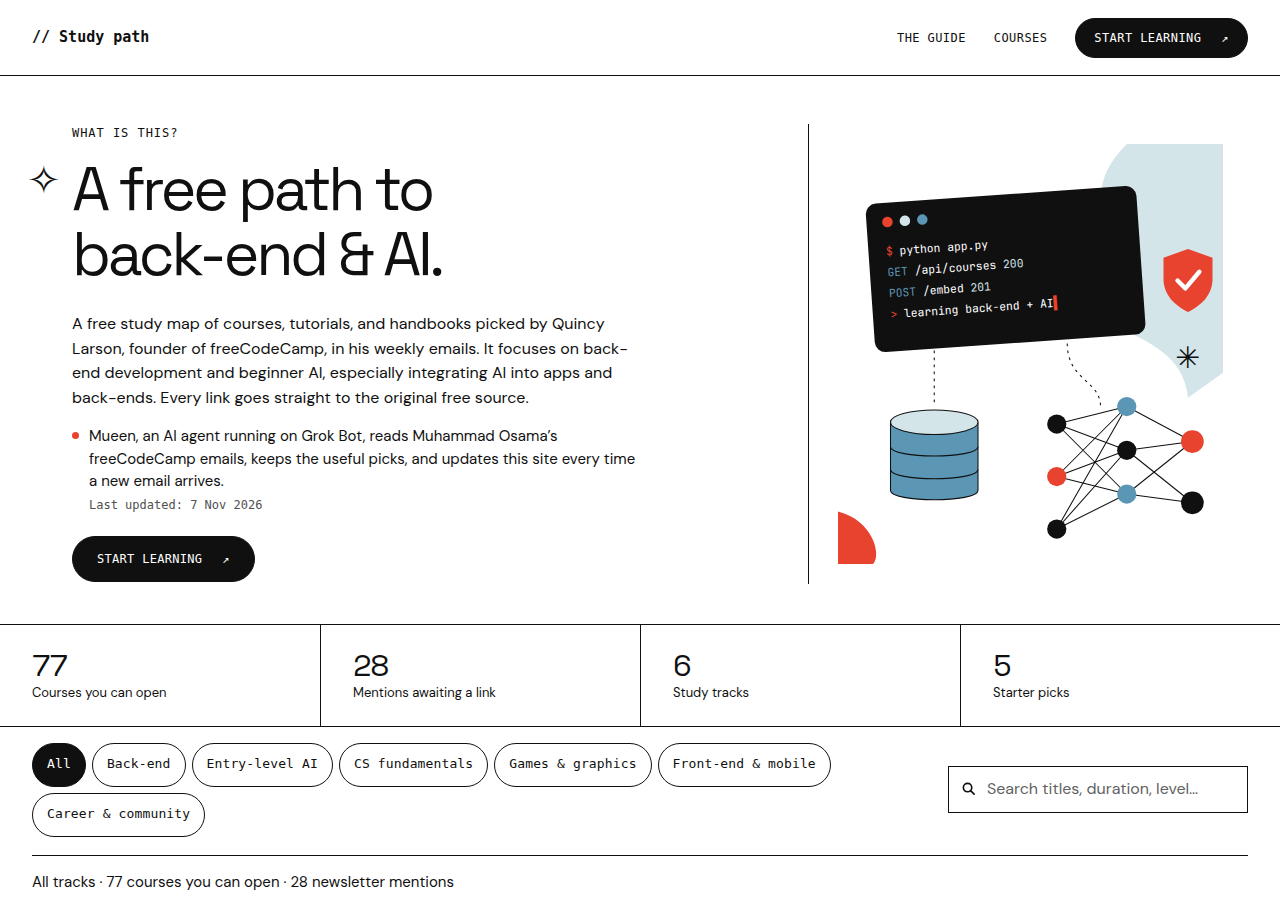
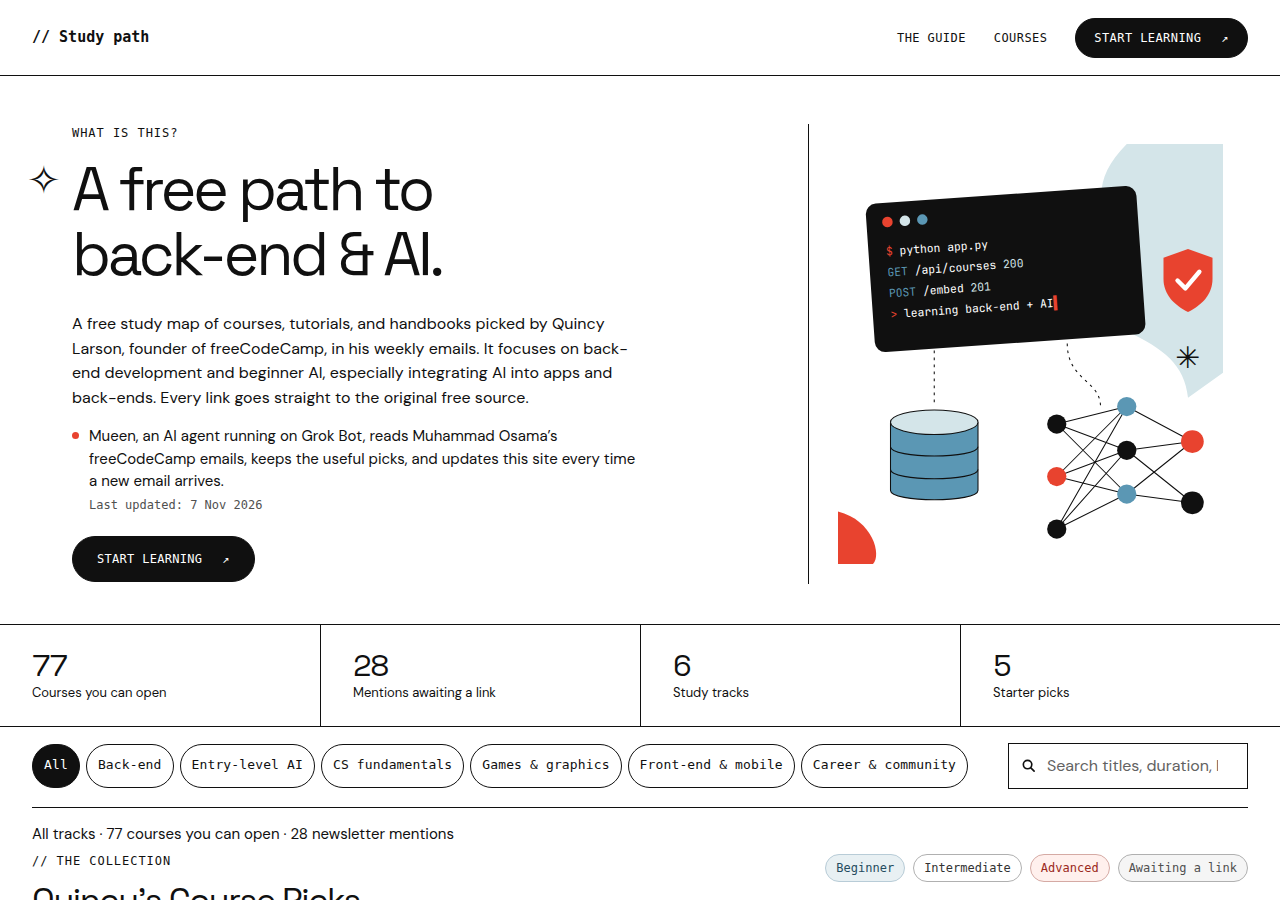
Keep the return bar, filters, and phone art from covering the work
The return control is a bar under the scrolling page, so it no longer
sits on a card. Very small screens reach the filters in the first view,
desktop filters stay on one row, and the phone art uses a short
readable line instead of tiny terminal text.

Changed region(s): [[0.0, 0.8089, 0.75, 1.0], [0.6562, 0.9333, 0.9688, 0.9956], [0.75, 0.84, 0.9688, 0.9022]]

diff --git a/css/styles.css b/css/styles.css
@@ -295,6 +295,10 @@ h1 {
   max-height:420px;
 }
 
+.hero-art svg.art-wide {
+  display:none;
+}
+
 .stats {
   display:grid;
   grid-template-columns:repeat(4,1fr);
@@ -431,7 +435,9 @@ h1 {
   display:flex;
   flex-wrap:wrap;
   gap:6px;
-  flex:1 1 620px;
+  flex:1 1 auto;
+  /* Stay one row wide until the toolbar is narrower than every label. */
+  min-inline-size:min(100%,max-content);
 }
 
 .tab {
@@ -440,7 +446,7 @@ h1 {
   min-block-size:44px;
   background:#fff;
   color:var(--ink);
-  padding:10px 14px;
+  padding:10px 11px;
   font:500 13px/1.3 var(--mono);
   cursor:pointer;
   letter-spacing:.01em;
@@ -457,8 +463,9 @@ h1 {
 
 .search {
   position:relative;
-  flex:1 1 220px;
-  max-inline-size:300px;
+  flex:0 1 240px;
+  max-inline-size:260px;
+  margin-inline-start:auto;
 }
 
 .search input {
@@ -778,21 +785,16 @@ a.card:hover .card-title {
 }
 
 .jump-filters {
-  position:fixed;
-  inset-block-end:16px;
-  inset-inline-end:16px;
-  z-index:40;
-  display:inline-flex;
+  display:flex;
   align-items:center;
   justify-content:center;
-  min-block-size:44px;
-  min-inline-size:44px;
+  flex:0 0 auto;
+  min-block-size:48px;
   padding:10px 18px;
   background:var(--ink);
   color:#fff;
   text-decoration:none;
-  border:1px solid var(--ink);
-  border-radius:999px;
+  border-block-start:1px solid var(--ink);
   font:500 14px/1.2 var(--sans);
 }
 
@@ -800,8 +802,21 @@ a.card:hover .card-title {
   display:none!important;
 }
 
+/* The return bar is a real footer under the scrolling page, so cards
+   cannot slide underneath it. */
 body.has-jump {
-  padding-block-end:76px;
+  display:flex;
+  flex-direction:column;
+  block-size:100vh;
+  block-size:100dvh;
+  overflow:hidden;
+}
+
+body.has-jump .page {
+  flex:1 1 auto;
+  min-block-size:0;
+  overflow:auto;
+  overscroll-behavior:contain;
 }
 
 .site-footer {
@@ -888,45 +903,54 @@ body.has-jump {
     display:none;
   }
   .hero {
-    grid-template-columns:minmax(0,1fr) 108px;
+    grid-template-columns:minmax(0,1fr);
     grid-template-areas:
-      "kicker art"
-      "title art"
-      "about about"
-      "cta cta";
-    column-gap:12px;
+      "kicker"
+      "title"
+      "art"
+      "about"
+      "cta";
+    row-gap:8px;
     align-items:start;
-    padding:14px 18px 10px;
+    padding:12px 18px 8px;
   }
   .hero h1 {
-    font-size:36px;
-    max-inline-size:100%;
+    font-size:34px;
+    max-inline-size:none;
     margin-block-end:0;
   }
   .hero > .kicker {
-    margin-block-end:8px;
+    margin-block-end:0;
   }
   .about .hero-sub,
   .hero-sub {
     font-size:16px;
+    line-height:1.45;
     max-inline-size:none;
-    margin-block-end:10px;
+    margin-block-end:8px;
   }
   .live-note {
     font-size:15px;
+    line-height:1.4;
   }
   .hero-bottom {
-    margin-block-start:10px;
+    margin-block-start:4px;
   }
   .hero-art {
     border:0;
     padding:0;
-    align-self:start;
-    justify-content:flex-end;
+    align-self:stretch;
+    justify-content:flex-start;
   }
-  .hero-art svg {
-    max-width:108px;
-    max-height:128px;
+  .hero-art svg.art-full {
+    display:none;
+  }
+  .hero-art svg.art-wide {
+    display:block;
+    inline-size:100%;
+    max-inline-size:420px;
+    block-size:auto;
+    max-block-size:none;
   }
   .stats {
     display:flex;
@@ -1021,15 +1045,43 @@ body.has-jump {
   }
 }
 
+@media(max-width:400px) {
+  .site-header {
+    min-block-size:52px;
+    padding:6px 12px;
+  }
+  .hero {
+    padding:8px 12px 6px;
+    row-gap:6px;
+  }
+  .hero h1 {
+    font-size:30px;
+  }
+  .about .hero-sub,
+  .hero-sub {
+    font-size:15px;
+    line-height:1.4;
+    margin-block-end:6px;
+  }
+  .live-note {
+    font-size:14px;
+    line-height:1.35;
+  }
+  .stats {
+    padding:6px 12px;
+    gap:4px 12px;
+  }
+  .stat dt {
+    font-size:15px;
+  }
+  .stat dd {
+    font-size:13px;
+  }
+}
+
 @media(max-width:350px) {
   .topnav .nav-courses {
     display:none;
-  }
-  h1 {
-    font-size:40px;
-  }
-  .site-header {
-    padding-inline:12px;
   }
   .topnav {
     gap:8px;

diff --git a/index.html b/index.html
@@ -70,7 +70,21 @@
           <a class="pill start-learning" href="#main">Start learning <span aria-hidden="true">↗</span></a>
         </div>
         <div class="hero-art" aria-hidden="true">
-          <svg viewBox="0 0 440 480" preserveAspectRatio="xMidYMid meet" xmlns="http://www.w3.org/2000/svg" aria-hidden="true" focusable="false">
+          <svg class="art-wide" viewBox="0 0 360 84" preserveAspectRatio="xMidYMid meet" xmlns="http://www.w3.org/2000/svg" aria-hidden="true" focusable="false">
+            <rect x="0" y="2" width="214" height="80" rx="10" fill="#101010"/>
+            <circle cx="18" cy="20" r="5" fill="#e8432f"/><circle cx="34" cy="20" r="5" fill="#d4e5e9"/><circle cx="50" cy="20" r="5" fill="#5b97b4"/>
+            <text x="16" y="52" font-family="ui-monospace,monospace" font-size="18" fill="#ffffff"><tspan fill="#e8432f">$</tspan> back-end + AI</text>
+            <g transform="translate(228 18)">
+              <path d="M0 10V48C0 56 44 56 44 48V10" fill="#5b97b4" stroke="#101010" stroke-width="1.4"/>
+              <path d="M0 24C0 32 44 32 44 24M0 36C0 44 44 44 44 36" fill="none" stroke="#101010" stroke-width="1.4"/>
+              <ellipse cx="22" cy="10" rx="22" ry="8" fill="#d4e5e9" stroke="#101010" stroke-width="1.4"/>
+            </g>
+            <g transform="translate(292 8)">
+              <path d="M24 0 48 8V28C48 44 36 54 24 60 12 54 0 44 0 28V8Z" fill="#e8432f"/>
+              <path d="M14 30 22 38 36 20" fill="none" stroke="#fff" stroke-width="4" stroke-linecap="round" stroke-linejoin="round"/>
+            </g>
+          </svg>
+          <svg class="art-full" viewBox="0 0 440 480" preserveAspectRatio="xMidYMid meet" xmlns="http://www.w3.org/2000/svg" aria-hidden="true" focusable="false">
 <rect width="440" height="480" fill="white"/>
 <path d="M330 0C282 48 300 90 338 116C282 140 280 190 330 214C372 234 396 252 400 290L470 240V0Z" fill="#d4e5e9"/>
 <g fill="none" stroke="#101010" stroke-width="1.2" stroke-dasharray="3 5"><path d="M110 228V300"/><path d="M262 228C262 270 300 270 300 300"/></g>
@@ -157,8 +171,8 @@
         <div id="content"></div>
       </section>
     </main>
-    <a class="jump-filters" id="jump-filters" href="#toolbar" hidden>Search and filters</a>
     <footer class="site-footer">Made by <a href="https://github.com/Mogadi">Muhammad Osama</a>. Links open the original free sources. <span id="footer-updated"></span></footer>
   </div>
+  <a class="jump-filters" id="jump-filters" href="#toolbar" hidden>Search and filters</a>
 </body>
 </html>

diff --git a/js/main.js b/js/main.js
@@ -346,18 +346,42 @@
   });
 
   if (jump && toolbar && "IntersectionObserver" in window) {
+    var page = document.querySelector(".page");
+    var syncing = false;
+    function scrollRoot() {
+      return document.body.classList.contains("has-jump") ? page : document.scrollingElement;
+    }
+    function setJump(show) {
+      if (!page || show === !jump.hidden) return;
+      syncing = true;
+      if (show) {
+        var y = window.scrollY || 0;
+        jump.hidden = false;
+        document.body.classList.add("has-jump");
+        window.scrollTo(0, 0);
+        page.scrollTop = y;
+      } else {
+        var y2 = page.scrollTop;
+        document.body.classList.remove("has-jump");
+        jump.hidden = true;
+        window.scrollTo(0, y2);
+      }
+      window.requestAnimationFrame(function () { syncing = false; });
+    }
     var observer = new IntersectionObserver(function (entries) {
-      entries.forEach(function (entry) {
-        var away = !entry.isIntersecting && entry.boundingClientRect.top < 0;
-        jump.hidden = !away;
-        document.body.classList.toggle("has-jump", away);
-      });
+      if (syncing) return;
+      var entry = entries[0];
+      var away = !entry.isIntersecting && entry.boundingClientRect.top < 0;
+      setJump(away);
     }, { threshold: 0 });
     observer.observe(toolbar);
     jump.addEventListener("click", function (event) {
       event.preventDefault();
-      var reduce = window.matchMedia("(prefers-reduced-motion: reduce)").matches;
-      toolbar.scrollIntoView({ block: "start", behavior: reduce ? "auto" : "smooth" });
+      var root = scrollRoot();
+      var top = toolbar.getBoundingClientRect().top - (root === page ? page.getBoundingClientRect().top : 0) + (root.scrollTop || window.scrollY || 0);
+      if (root === page) page.scrollTop = Math.max(0, top - 12);
+      else window.scrollTo(0, Math.max(0, top - 12));
+      setJump(false);
       query.focus();
     });
   }
